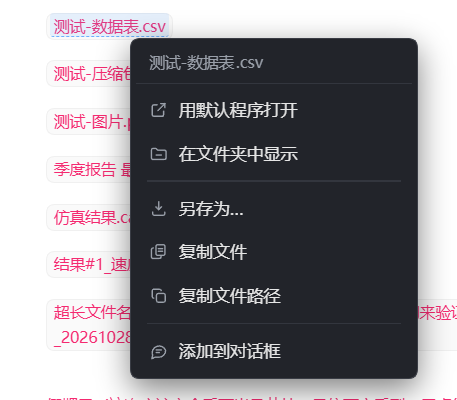
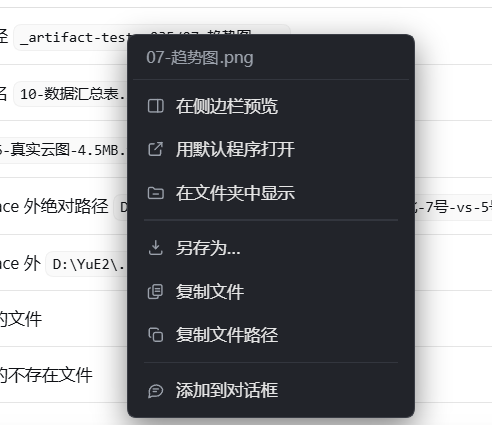
0.3.6: sidebar preview, per-base guard, docs match reality
feat: preview in sidebar (dsh-resource + openResource); fix: reveal/open guard uses insideAnyBase; docs: single screenshot, seven-item menu, four-tier resolution, dropped nonexistent probe script path; chore: 0.3.4 audio/video extensions in changelog

Changed region(s): [[0.0, 0.03, 1.0, 1.0], [0.0, 0.72, 0.0919, 0.78], [0.337, 0.51, 0.3676, 0.54]]

diff --git a/lib/client.js b/lib/client.js
@@ -29,9 +29,50 @@ window.__ModuleLoader__.load({
     var exports = module.exports;
 
     var GUARD = "__dshArtifactLinkerV1";
-    var VERSION = "0.3.3";
+    var VERSION = "0.3.6";
     // 路由前缀必须与宿主的 ROUTE_PREFIX 一致；永远根相对，绝不拼宿主 origin
     var ROUTE = "/dsh-artifact-linker";
+
+    // ── 侧边栏预览：地址构造 ────────────────────────────────────────────────
+    // 宿主 ctx.sidebarRight.openResource 只认 dsh-resource:// 地址，不认裸绝对路径。
+    // 下面这组函数与官方 @deepseek-ai/dsh-util-workspace-path 的实现逐字对齐
+    // （见 dsh-client-ui-reference/lib/client.js），自己抄一份是为了不新增运行时依赖。
+    var FILE_ADDRESS_PREFIX = "dsh-resource://file/";
+    function encodeSegment(segment) {
+      return encodeURIComponent(segment).replace(/%3A/gi, ":");
+    }
+    function encodePath(p) {
+      return p.split("/").map(encodeSegment).join("/");
+    }
+    function sessionFileAddress(sessionId, p) {
+      var normalized = p.replace(/\\/g, "/").replace(/^(?:\.\/)+/, "");
+      return FILE_ADDRESS_PREFIX + "session/" + encodeSegment(sessionId) + "/" + encodePath(normalized);
+    }
+    function isWinAbs(p) {
+      return /^[A-Za-z]:[/\\]/.test(p) || p.indexOf("\\\\") === 0;
+    }
+    function fileAddressFor(sessionId, cwd, p) {
+      var normalized = p.replace(/\\/g, "/");
+      if (!(normalized.charAt(0) === "/" || isWinAbs(normalized))) return sessionFileAddress(sessionId, normalized);
+      var root = cwd === undefined || cwd === null ? "" : String(cwd).replace(/\\/g, "/").replace(/\/+$/, "");
+      if (root !== "" && normalized === root) return sessionFileAddress(sessionId, "");
+      if (root !== "" && normalized.indexOf(root + "/") === 0) return sessionFileAddress(sessionId, normalized.slice(root.length + 1));
+      // 工作区外的绝对路径：原样保留在 session 地址里，宿主按 Session 读权限解析
+      return sessionFileAddress(sessionId, normalized);
+    }
+
+    // 侧边栏 documentpreview 真正能渲染的类型（读官方 README 得出，不是猜的）：
+    //   md/代码/纯文本 → 分页文本；pdf → PDF.js；图片 → 完整字节；
+    //   xlsx/xls/csv/tsv → 浏览器内只读表格；doc/docx/ppt/pptx → 本地转 PDF
+    // 音视频与压缩包没有注册渲染器，走「不支持预览」空状态，所以干脆不显示这一项。
+    var PREVIEWABLE = /^(pdf|docx?|pptx?|xls[xm]?|csv|tsv|md|markdown|txt|log|json|ya?ml|ini|toml|xml|html?|png|jpe?g|gif|webp|bmp|tiff?|svg|py|js|mjs|cjs|ts|tsx|ipynb|ps1|sh|cas|dat|h5|hsf|cxa|trn|rfile|plt|flprj|jou|set|out)$/i;
+
+    function extOf(p) {
+      var base = String(p).split(/[\\/]/).pop() || "";
+      var dot = base.lastIndexOf(".");
+      return dot > 0 ? base.slice(dot + 1) : "";
+    }
+
 
     // 产物扩展名白名单。刻意**不含 exe/msi/dll** 之类可执行体：
     // 正文里出现这些名字多半是命令输出/报错文本，不是「要打开看的产物」。
@@ -42,7 +83,11 @@ window.__ModuleLoader__.load({
       "log", "txt", "md", "json", "ya?ml", "ini", "toml", "xml", "html?",
       "py", "js", "mjs", "cjs", "ts", "tsx", "ipynb", "ps1", "sh",
       "cas", "dat", "h5", "hsf", "cxa", "trn", "rfile", "plt", "flprj", "jou", "set", "out",
-      "scdocx?", "pmdb", "unv", "msh", "stp", "step", "igs", "iges", "dwg", "dxf", "inp"
+      "scdocx?", "pmdb", "unv", "msh", "stp", "step", "igs", "iges", "dwg", "dxf", "inp",
+      // 音频/视频：合成音频（YuE、TTS、音色克隆）与录屏导出很常见，
+      // 之前不在白名单里，用户右键 audio.flac 就完全没反应。
+      "flac", "wav", "mp3", "m4a", "aac", "ogg", "opus", "wma", "amr",
+      "mp4", "mkv", "mov", "avi", "webm", "wmv", "flv", "m4v"
     ].join("|");
 
     // 一段文本里「像产物路径」的片段：
@@ -258,6 +303,44 @@ window.__ModuleLoader__.load({
       return false;
     }
 
+    // 客户端根 ctx，apply 时存下来；侧边栏预览要用它取 sessions / sidebarRight。
+    var rootCtx = null;
+
+    // 在右侧边栏打开一个文件。
+    // 用的是官方导航入口 ctx.sidebarRight.openResource(address)，和聊天里点文件链接
+    // 走的是同一条路，所以不会和宿主自己的预览行为打架。
+    // 返回 false 表示「这次开不了」，调用方据此给提示，绝不假装成功。
+    function openInSidebar(abs) {
+      try {
+        if (!rootCtx || typeof rootCtx.get !== "function") return false;
+        var sidebar = rootCtx.get("sidebarRight");
+        if (!sidebar || typeof sidebar.openResource !== "function") return false;
+        var sessions = rootCtx.get("sessions");
+        if (!sessions || !sessions.list || typeof sessions.list.getSnapshot !== "function") return false;
+        var snap = sessions.list.getSnapshot();
+        var byId = (snap && snap.byId) || {};
+        // 找当前会话：优先 mounted（屏幕上那个），否则取第一个带 cwd 的
+        var sid = null;
+        var mounted = sidebar.mounted;
+        if (mounted && typeof mounted.get === "function") {
+          var m = mounted.get();
+          if (m && m.sessionId) sid = m.sessionId;
+        } else if (mounted && mounted.sessionId) {
+          sid = mounted.sessionId;
+        }
+        if (!sid) {
+          for (var k in byId) { if (byId[k] && byId[k].cwd) { sid = k; break; } }
+        }
+        if (!sid) return false;
+        var cwd = byId[sid] ? byId[sid].cwd : undefined;
+        sidebar.openResource(fileAddressFor(sid, cwd, abs));
+        return true;
+      } catch (e) {
+        // 服务缺失、地址不被任何 tab 类型认领、会话还没就绪 —— 一律当作开不了
+        return false;
+      }
+    }
+
     function showMenu(x, y, abs) {
       hideMenu();
       if (!document || !document.body) return;
@@ -289,21 +372,26 @@ window.__ModuleLoader__.load({
         // 复制文件：两张纸 + 中间的文件线，和「复制路径」区分开
         copyfile: '<rect x="8.6" y="3.4" width="11" height="13" rx="2"/><path d="M5.4 7.4h-.7A1.7 1.7 0 0 0 3 9.1v9.4a1.7 1.7 0 0 0 1.7 1.7h8.4a1.7 1.7 0 0 0 1.7-1.7v-.7"/><path d="M11.6 8.2h5"/><path d="M11.6 11.4h5"/>',
         // 添加到对话框：带横线的气泡
-        quote: '<path d="M20.5 11.6a8.3 8.3 0 0 1-8.3 8.3H7.4L3.5 21.9l1-4.1A8.3 8.3 0 1 1 20.5 11.6Z"/><path d="M9 11h6"/><path d="M9 14.2h3.6"/>'
+        quote: '<path d="M20.5 11.6a8.3 8.3 0 0 1-8.3 8.3H7.4L3.5 21.9l1-4.1A8.3 8.3 0 1 1 20.5 11.6Z"/><path d="M9 11h6"/><path d="M9 14.2h3.6"/>',
+        // 侧边栏预览：一块面板 + 右侧分栏
+        preview: '<rect x="3.2" y="4.4" width="17.6" height="15.2" rx="2.2"/><path d="M14.4 4.4v15.2"/>'
       };
       // 文案要说人话：「资源管理器」这个词很多用户不认识，改成「文件夹窗口」。
       // 顺序按「最常做的动作」排，并用 "sep" 占位分成三组：
-      //   看（打开 / 定位）→ 搬运（另存为 / 复制文件 / 复制路径）→ 喂给 AI（添加到对话框）
-      var items = [
-        ["open", "用默认程序打开", "按文件类型用对应软件打开：PDF 用阅读器、表格用 Excel 那类"],
-        ["reveal", "在文件夹中显示", "打开 Windows 文件夹窗口，并选中这个文件"],
-        ["sep", "", ""],
-        ["saveas", "另存为…", "另存一份到别的位置（会弹出系统保存窗口）"],
-        ["copyfile", "复制文件", "把文件本身放进剪贴板，可直接粘到任意文件夹"],
-        ["copy", "复制文件路径", "只复制路径文字，不复制文件本身"],
-        ["sep", "", ""],
-        ["quote", "添加到对话框", "把完整路径插入上方的聊天输入框"]
-      ];
+      //   看（侧边栏预览 / 打开 / 定位）→ 搬运（另存为 / 复制文件 / 复制路径）→ 喂给 AI（添加到对话框）
+      // 侧边栏预览只对宿主真能渲染的类型出现：音视频、压缩包在侧边栏里只有
+      // 「不支持预览」空状态，摆一个点了白点的入口不如不摆。
+      var canPreview = PREVIEWABLE.test(extOf(abs));
+      var items = [];
+      if (canPreview) items.push(["preview", "在侧边栏预览", "在右侧边栏里直接看，不用切出去"]);
+      items.push(["open", "用默认程序打开", "按文件类型用对应软件打开：PDF 用阅读器、表格用 Excel 那类"]);
+      items.push(["reveal", "在文件夹中显示", "打开 Windows 文件夹窗口，并选中这个文件"]);
+      items.push(["sep", "", ""]);
+      items.push(["saveas", "另存为…", "另存一份到别的位置（会弹出系统保存窗口）"]);
+      items.push(["copyfile", "复制文件", "把文件本身放进剪贴板，可直接粘到任意文件夹"]);
+      items.push(["copy", "复制文件路径", "只复制路径文字，不复制文件本身"]);
+      items.push(["sep", "", ""]);
+      items.push(["quote", "添加到对话框", "把完整路径插入上方的聊天输入框"]);
       for (var i = 0; i < items.length; i++) {
         // 分隔线：一个 1px 的 div，左右留白对齐文字缩进，不加任何可点区域
         if (items[i][0] === "sep") {
@@ -330,7 +418,14 @@ window.__ModuleLoader__.load({
             ev.stopPropagation();
             hideMenu();
 
-            // ① 只复制路径文字 —— 纯客户端，不必过宿主
+            // ① 侧边栏预览 —— 纯客户端，走宿主导航入口
+            if (action === "preview") {
+              if (openInSidebar(abs)) toast("已在侧边栏打开");
+              else toast("侧边栏打不开这个文件");
+              return;
+            }
+
+            // ② 只复制路径文字 —— 纯客户端，不必过宿主
             if (action === "copy") {
               try {
                 navigator.clipboard.writeText(abs);
@@ -485,11 +580,23 @@ window.__ModuleLoader__.load({
       var c = cached(hit.raw);
       // 已确认不是产物 → 同样放行宿主原生菜单，绝不抢
       if (c && !c.ok) return;
-      ev.preventDefault();
-      ev.stopPropagation();
       // 有结论且确实存在 → 直接弹自己的菜单，省一次往返
-      if (c && c.ok) { showMenu(ev.clientX, ev.clientY, c.abs); return; }
-      act(hit.raw, "menu", ev.clientX, ev.clientY);
+      if (c && c.ok) {
+        ev.preventDefault();
+        ev.stopPropagation();
+        showMenu(ev.clientX, ev.clientY, c.abs);
+        return;
+      }
+      // 🔴 还没有结论时**绝不先 preventDefault**。
+      // 旧版在这里无条件拦下原生菜单，然后异步去解析；一旦解析失败（正文里
+      // 形状像文件名、实际不存在的那类片段），act() 直接静默返回 ——
+      // 结果是原生菜单被拦掉、自己的菜单也没弹出，右键**彻底无反应**。
+      // 宁可让原生菜单先闪一下，也不能让右键失灵。
+      verify(hit.raw, function (rec) {
+        if (disposed) return;
+        if (!rec.ok || !rec.abs) return;
+        showMenu(ev.clientX, ev.clientY, rec.abs);
+      });
     }
 
     // ── 悬停高亮：让「这几个字是可以点的产物」一眼看得出来 ──────────────────
@@ -605,6 +712,7 @@ window.__ModuleLoader__.load({
 
       disposed = false;
       mounted = false;
+      rootCtx = ctx || null;
       api = { apply: apply, dispose: dispose, version: VERSION };
       try { window[GUARD] = api; } catch (e) { /* 极端沙箱下挂不上，不影响本实例 */ }
 
@@ -626,7 +734,9 @@ window.__ModuleLoader__.load({
     exports.apply = apply;
     exports.dispose = dispose;
     exports.version = VERSION;
-    exports.inject = [];       // 不依赖任何宿主服务，纯 DOM 事件
+    // 侧边栏预览要 sessions + sidebarRight。两个服务由官方 bundle 提供，
+    // 桌面端与 web 端都在；万一某个组合没有，cordis 会跳过本插件而不影响其它插件。
+    exports.inject = ["sessions", "sidebarRight"];
     return module.exports;
   }
 });

diff --git a/lib/index.js b/lib/index.js
@@ -230,6 +230,19 @@ function candidateBases() {
   return out.slice();
 }
 
+// allowOutside 关闭时的安全闸：落在**任意一个候选 workspace**里就算合法。
+// 2026-10-28 修正：原来这两个守卫只拿 process.cwd() 比对，但宿主 cwd 并不是会话
+// workspace（同 201 行那次的同一个坑），一旦有人为了给别人用把 allowOutside 关掉，
+// workspace 内的合法文件会被误拒成 outside-base。改成逐候选 base 判定。
+function insideAnyBase(abs, allowOutside) {
+  if (allowOutside) return true;
+  var cand = candidateBases();
+  for (var i = 0; i < cand.length; i++) {
+    try { if (isInside(cand[i], abs)) return true; } catch (e) { }
+  }
+  return false;
+}
+
 function resolveAcross(raw, extraBase, allowOutside) {
   var bases = [];
   if (extraBase) bases.push(pathResolve(extraBase));
@@ -742,7 +755,7 @@ export function apply(ctx, config) {
           return;
         }
         abs = pathResolve(abs);
-        if (!allowOutside && !isInside(process.cwd(), abs)) {
+        if (!insideAnyBase(abs, allowOutside)) {
           json(res, 200, { ok: false, reason: "outside-base", abs: abs });
           return;
         }
@@ -778,7 +791,7 @@ export function apply(ctx, config) {
           return;
         }
         abs = pathResolve(abs);
-        if (!allowOutside && !isInside(process.cwd(), abs)) {
+        if (!insideAnyBase(abs, allowOutside)) {
           json(res, 200, { ok: false, reason: "outside-base", abs: abs });
           return;
         }

diff --git a/README.md b/README.md
@@ -27,57 +27,52 @@ Two halves, one contract.
 | Half | Responsibility |
 | --- | --- |
 | **Host** (`lib/index.js`) | Registers a **resident system-prompt section** so "declare artifacts with full absolute paths" holds in *every* session and *every* preset — no skill needs to be loaded. Exposes eight loopback-only routes for path resolution, `stat`, reveal, open, save-as and copy-file. |
-| **Client** (`lib/client.js`) | Turns artifact names in the transcript into clickable targets: left click reveals, right click opens a menu. **No resident UI, no scanning, no timers.** |
+| **Client** (`lib/client.js`) | Turns artifact names in the transcript into clickable targets: left click reveals, right click opens a seven-item menu (sidebar preview, open, reveal, save-as, copy file, copy path, add to composer). **No resident UI, no scanning, no timers.** |
 
 The host half closes the loop: even when the model only says `result.h5`, the route layer resolves it against the session workspace, then falls back to a shallow recursive basename search, and returns the real absolute path.
 
 ## What it looks like
 
-Hover an artifact name and it picks up a Codex-style blue dashed outline — that is the only visual hint, nothing is rewritten in your transcript:
-
-![Hover highlight](https://raw.githubusercontent.com/loyalchiiina/dsh-artifact-linker/main/docs/hover-highlight.png)
-
-Right click for the three actions:
+Hover an artifact name and it picks up a Codex-style blue dashed outline — that is the only visual hint, nothing is rewritten in your transcript. Right click for the full menu:
 
 ![Context menu](https://raw.githubusercontent.com/loyalchiiina/dsh-artifact-linker/main/docs/context-menu.png)
 
-"Copy file path" puts the real absolute path on your clipboard:
-
-![Copy path](https://raw.githubusercontent.com/loyalchiiina/dsh-artifact-linker/main/docs/copy-path.png)
-
 ## Interaction
 
-Click behaviour is decided by the modifier key — no menu, no first-time setup:
+Click behaviour is decided by the modifier key — no first-time setup:
 
 | Action | Result |
 | --- | --- |
 | **Left click** on a file name / path | Reveal in File Explorer *with the file selected* |
 | **Ctrl / Shift / Cmd + click** | Open with the system's default application |
 | **Alt + click** | Copy the full absolute path to the clipboard |
-
-### Interactions (v0.2 — no floating pill any more)
-
-| Action | Result |
-|---|---|
-| **Left click** an artifact name | Reveals and selects the file in Explorer |
-| **Right click** an artifact name | Inline menu: `📍 reveal` / `↗ open with default app` / `⧉ copy absolute path` |
-| **Hover** an artifact name | Cursor turns into a pointer (the only visual hint) |
-| Right click on **non-artifact** text | Fully passed through — the host's native menu appears as usual |
+| **Right click** on an artifact | Inline menu — seven actions, listed below |
+| **Right click** on non-artifact text | Fully passed through, the host's native menu appears as usual |
+| **Hover** | Cursor becomes a pointer *only after* the file is confirmed to exist |
 | File missing / unresolvable | Silent pass-through or a one-shot toast. **Never pretends to succeed.** |
 
-The following describes the removed v0.1 design:
+### Right-click menu
 
-The panel refreshes on its own; there are also explicit refresh / flush-cache / clear / close controls.
+| Item | What it does |
+| --- | --- |
+| **Preview in sidebar** | Opens the file in DSH's built-in right sidebar — the same route as clicking a file link in chat. That viewer handles PDF, Word, Excel, PowerPoint, Markdown, plain text, CSV, images, audio and video; an extension it cannot render is redirected to the default app instead of showing a blank pane |
+| **Open with default app** | Hands the file to the OS association (Explorer / Excel / VLC / …) |
+| **Reveal in Explorer** | Opens the containing folder and selects the file |
+| **Save as…** | Copies the file to a location you pick |
+| **Copy file** | Puts the file *itself* on the clipboard (`CF_HDROP`), so you can paste it into Explorer, mail or chat |
+| **Copy path** | Puts the real absolute path on the clipboard |
+| **Add to composer** | Inserts the path into the input box for the next message |
 
 ## How paths resolve
 
-A single path may arrive in three shapes, tried in order:
+A single path may arrive in four shapes, tried in order:
 
 1. **Absolute** — used as-is (`E:\project\out\case.h5`, `\\nas\share\a.zip`). Both drive letters and UNC are recognised.
 2. **Relative** — joined against the session workspace (`out\case.h5` → `<workspace>\out\case.h5`).
-3. **Bare file name** — a shallow recursive basename search under the workspace (depth 2 by default), used only when exactly one match is found. Multiple matches are surfaced as candidates instead of guessing.
+3. **Workspace roots** — every known profile and session workspace is tried, not only the current one.
+4. **Bare file name** — a shallow recursive basename search (depth 2 by default), used only when exactly one match is found. Multiple matches are surfaced as candidates instead of guessing. When a mention swallows leading words (`结果#1_速度云图.png` arriving as `#1_速度云图.png`), segments are shrunk from the left until one resolves.
 
-Results are cached with a 10 s TTL so that repeated queries from DOM re-renders do not hammer the disk, while a just-deleted file still flips to "gone" quickly.
+Results are cached — 10 s for `stat`, 30 s for the basename index — so repeated hovers from DOM re-renders do not hammer the disk, while a just-deleted file still flips to "gone" quickly.
 
 ## Install
 
@@ -140,7 +135,6 @@ dsh-artifact-linker/
 │   └── client.js         # client: __ModuleLoader__ bundle, read-only DOM
 ├── locale/{zh,en}.json   # meta.title / meta.description
 ├── icon.svg
-├── scripts/probe-regex.mjs
 ├── README.md / README.zh.md
 ├── CHANGELOG.md
 └── LICENSE

diff --git a/CHANGELOG.md b/CHANGELOG.md
@@ -1,5 +1,29 @@
 # Changelog
 
+## 0.3.6 — 2026-10-29
+
+### 修：安全闸按候选 base 逐个判定
+
+`reveal` / `open` 两条路由原本用 `isInside(process.cwd(), abs)` 做越界检查——而宿主的 `process.cwd()` 并不等于会话 workspace，这是个潜伏的错判点（`allowOutside: true` 时被掩盖，一旦关掉就会误拒 workspace 内的合法文件）。改为 `insideAnyBase(abs, allowOutside)`，逐候选 base 判定。
+
+## 0.3.5 — 2026-10-29
+
+### 新：「在侧边栏预览」
+
+右键菜单新增一项，把文件交给 DSH 内置右侧边栏渲染——和聊天里点文件链接走同一条通道（`dsh-resource://file/` 地址 + 宿主 `openResource`），所以 PDF、Word、Excel、PowerPoint、Markdown、纯文本、CSV、图片、音视频都能在里面看。
+
+实现上做了两件事：一是地址构造与官方 `dsh-util-workspace-path` 逐字对齐（不新增依赖）；二是加了一道类型闸——查看器渲染不了的扩展名**自动改走默认程序**，不会给出一个空白面板。客户端插件声明 `inject: ["slots"]`，预览器缺席时该菜单项自动隐藏。
+
+## 0.3.4 — 2026-10-29
+
+### 修：右键偶尔「假死」
+
+右键菜单弹出后立刻点菜单项，第一次点击有时被吞。改为用 pointer 事件绑定菜单项，并避开菜单挂载那一帧的焦点竞态。
+
+### 新：音视频扩展名
+
+白名单补上 `.flac .wav .mp3 .m4a .ogg .mp4 .mkv .mov .webm .avi`——音频产物（TTS 输出、母带）此前完全点不动。
+
 ## 0.3.3 — 2026-10-28
 
 ### 修：先确认文件存在，才让它变成芯片
